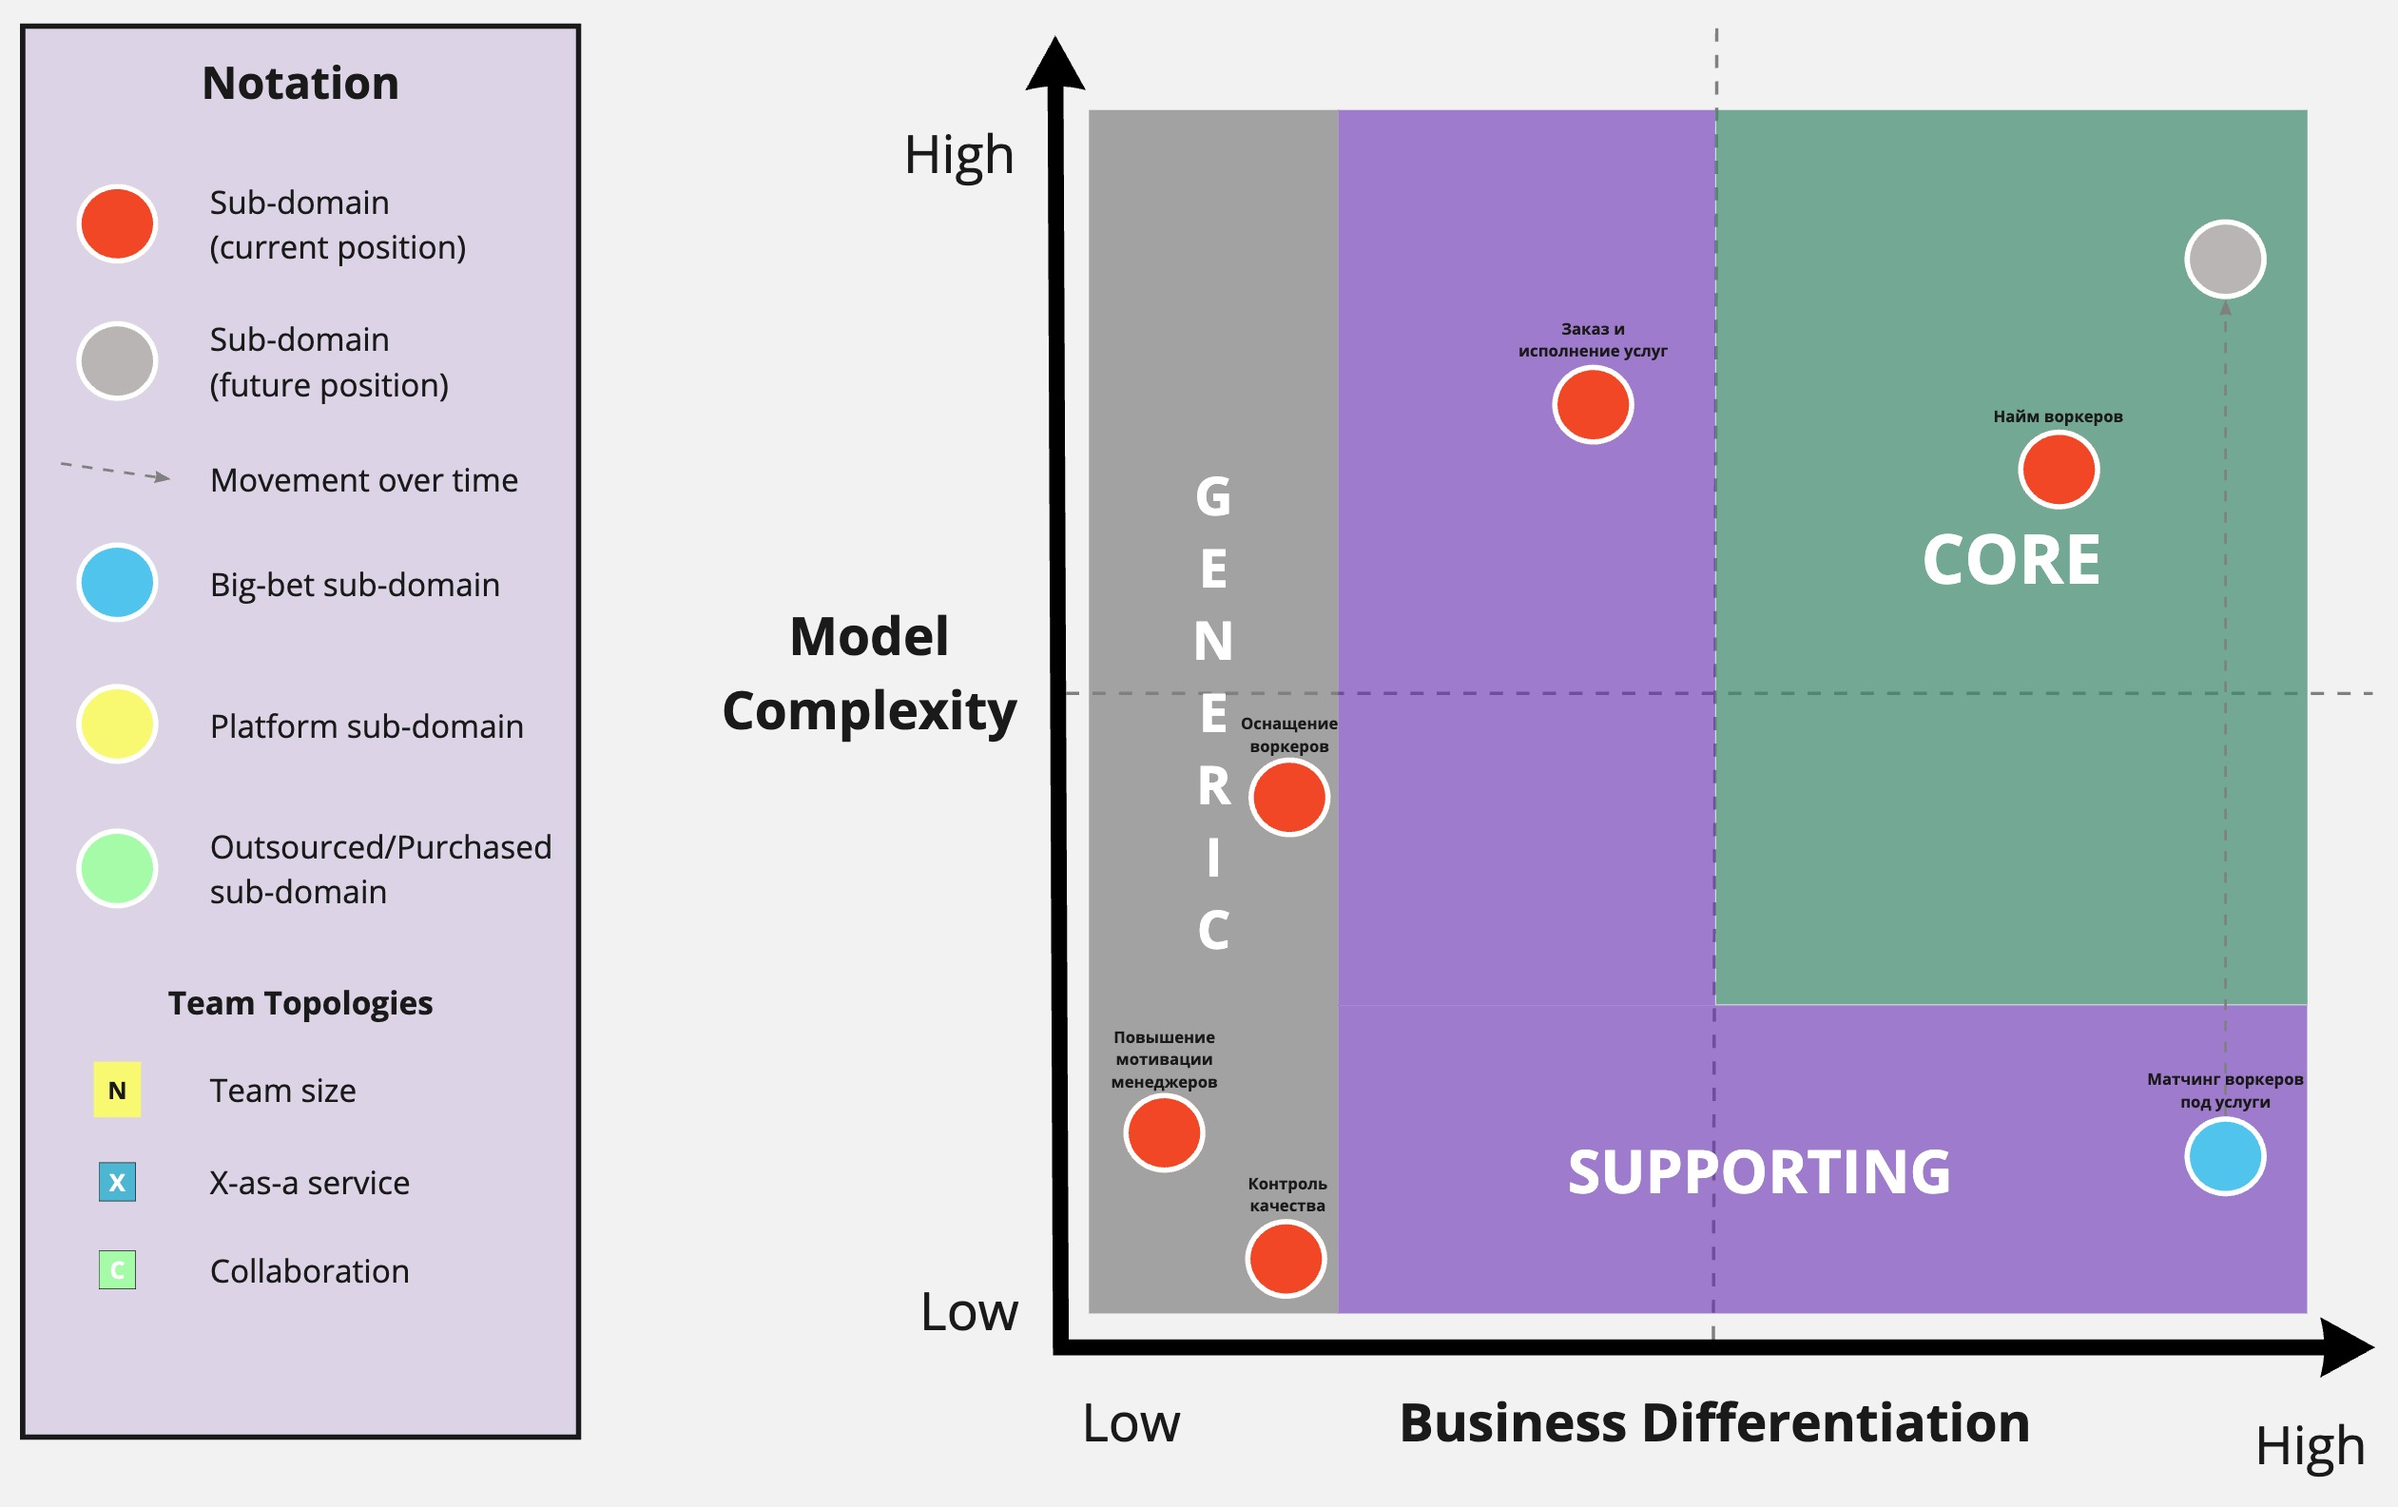
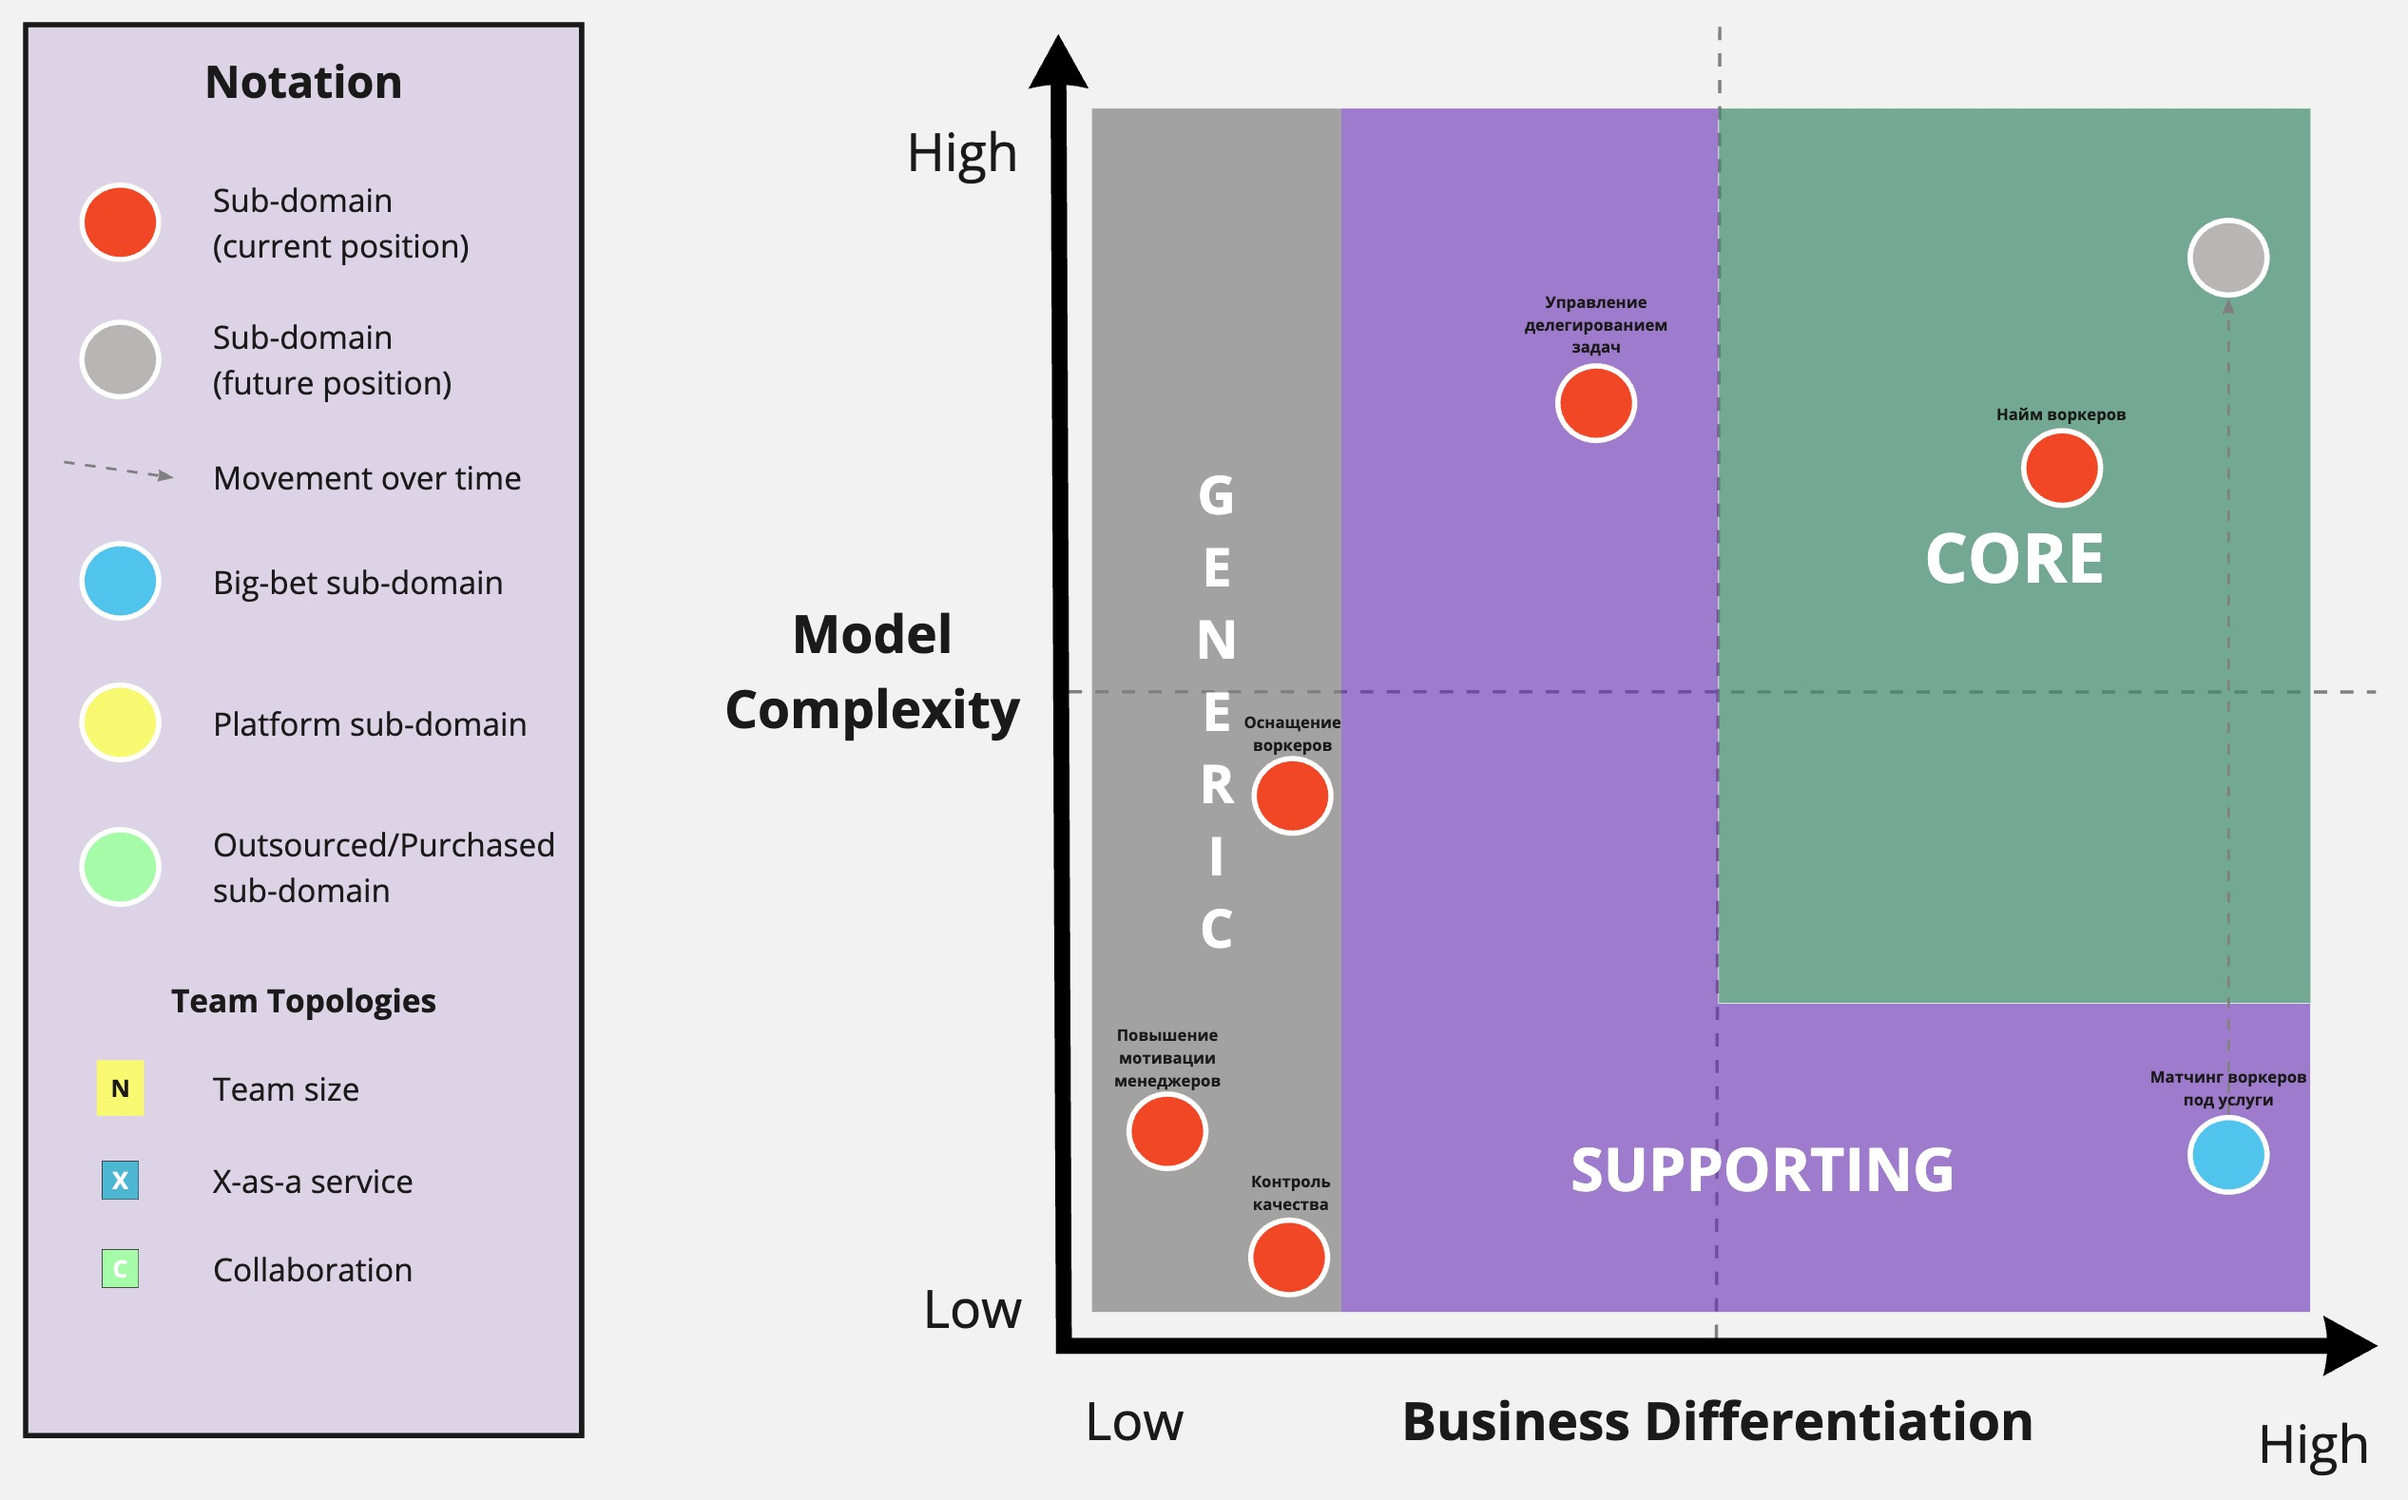
HW-2: add bounded contexts

diff --git a/homework-2/README.md b/homework-2/README.md
@@ -4,6 +4,7 @@
 - [Business domain](#business-domain)
   - [Поддомены](#поддомены)
   - [Core Domain Chart](#core-domain-chart)
+- [Bounded contexts](#bounded-contexts)
 
 ## Business domain
 **Цель** компании Make Cats Free — повышение продуктивности котов-тестировщиков за счет делегирования рутинных задач
@@ -15,23 +16,35 @@
 
 ### Поддомены
 - Найм воркеров
-- Матчинг воркеров под услуги
-- Заказ и исполнение услуг для клиентов
-- Контроль качества исполнения услуг
+- Матчинг воркеров под задачи
+- Управление делегированием задач
+- Контроль качества исполнения задач
 - Оснащение воркеров
 - Поддержание мотивации менеджеров
 
-| Вид поддомена                         | Конкурентное преимущество | Сложность                        | Изменчивость |
-|---------------------------------------|---------------------------|----------------------------------|--------------|
-| Найм воркеров                         | да                        | высокая                          | высокая      |
-| Матчинг воркеров под услуги           | да                        | низкая, но в перспективе высокая | высокая      |
-| Заказ и исполнение услуг для клиентов | нет                       | высокая                          | высокая      |
-| Контроль качества исполнения услуг    | нет                       | низкая                           | низкая       |
-| Оснащение воркеров                    | нет                       | низкая                           | низкая       |
-| Поддержание мотивации менеджеров      | нет                       | низкая                           | низкая       |
+| Вид поддомена                      | Конкурентное преимущество | Сложность                        | Изменчивость |
+|------------------------------------|---------------------------|----------------------------------|--------------|
+| Найм воркеров                      | да                        | высокая                          | высокая      |
+| Матчинг воркеров под задачи        | да                        | низкая, но в перспективе высокая | высокая      |
+| Управление делегированием задач    | нет                       | высокая                          | высокая      |
+| Контроль качества исполнения задач | нет                       | низкая                           | низкая       |
+| Оснащение воркеров                 | нет                       | низкая                           | низкая       |
+| Поддержание мотивации менеджеров   | нет                       | низкая                           | низкая       |
 
 ### Core Domain Chart
 
 ![Core domain chart](https://github.com/foxy-eyed/mcf-project/blob/hw-2/homework-2/img/core_domain_chart.jpg)
 
 [Открыть в Miro](https://miro.com/app/board/uXjVNJgr-44=/?share_link_id=423268842380)
+
+## Bounded contexts
+
+| Вид поддомена                      | Предполагаемый вид поддомена | Выделенный боундед-контекст                                                                                |
+|------------------------------------|------------------------------|------------------------------------------------------------------------------------------------------------|
+| Найм воркеров                      | Core                         | - Прием заявок от кандидатов<br>- Управление вакансиями и тестами                                          |
+| Матчинг воркеров под задачи        | Core                         | Инновационный матчер                                                                                       |
+| Управление делегированием задач    | Supporting                   | - Заказ и трекинг выполнения задач<br>- Менеджмент услуг<br>- Расчет и выплата вознаграждений исполнителям |
+| Контроль качества исполнения задач | Generic                      | Экспертиза услуг                                                                                           |
+| Оснащение воркеров                 | Generic                      | Комплектация заказов Работа с поставщиками печенья                                                         |
+| Поддержание мотивации менеджеров   | Generic                      | Тотализатор                                                                                                |
+
